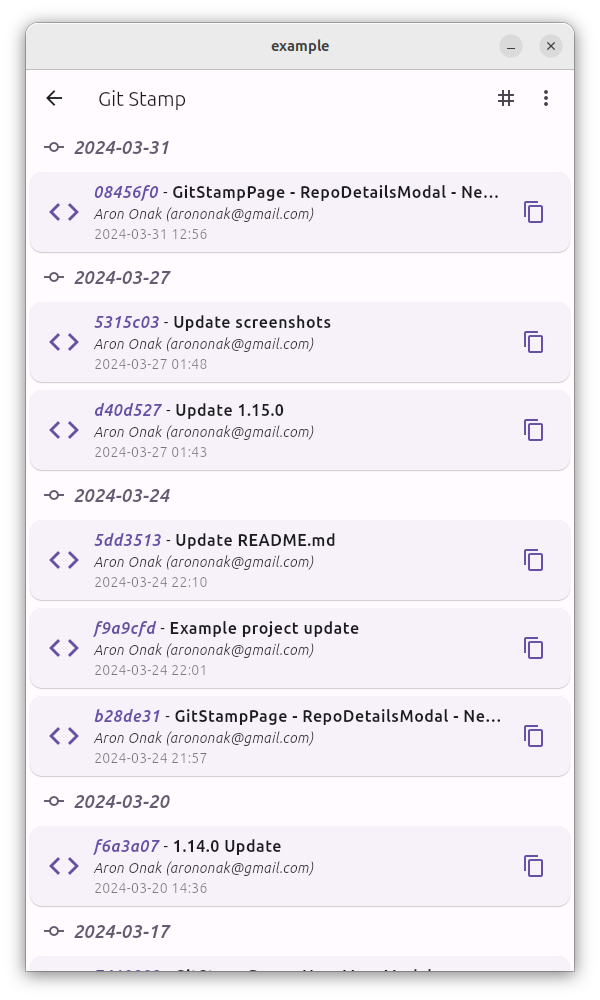
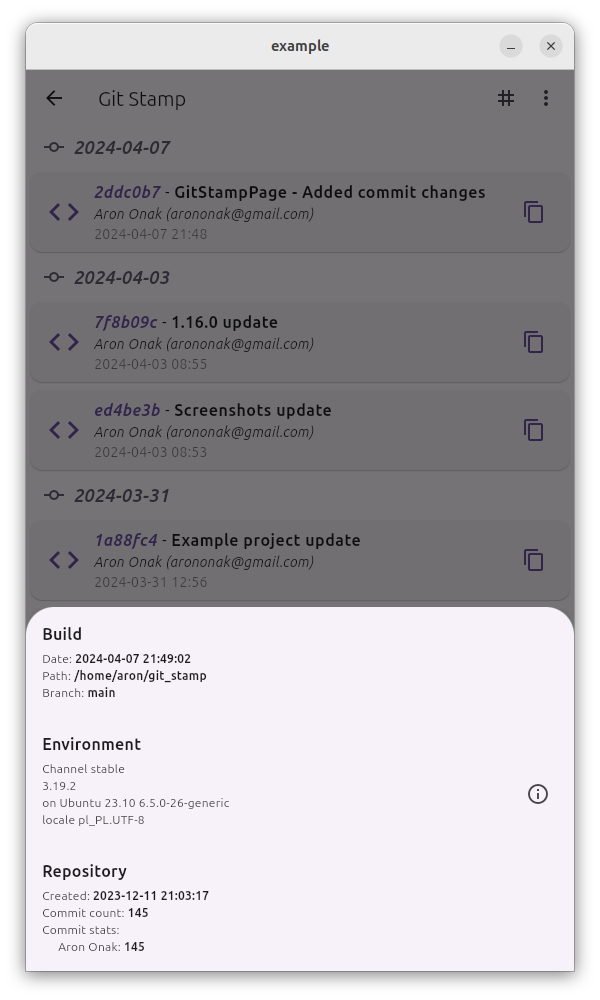
2.0.0 Update

diff --git a/bin/generate.dart b/bin/generate.dart
@@ -87,7 +87,11 @@ String gitRepoPathOutput() {
 }
 
 String gitDiffOutput() {
-  final hashes = Process.runSync('git', ['rev-list', '--all']).stdout.toString().trim().split('\n');
+  final hashes = Process.runSync('git', ['rev-list', '--all'])
+      .stdout
+      .toString()
+      .trim()
+      .split('\n');
 
   Map<String, String> gitShowMap = {};
 
@@ -96,7 +100,8 @@ String gitDiffOutput() {
     print('git show $hash');
   }
 
-  final diffOutput = 'const diffOutput = <String, String>${jsonEncode(gitShowMap).replaceAll(r'$', r'\$')};';
+  final diffOutput =
+      'const diffOutput = <String, String>${jsonEncode(gitShowMap).replaceAll(r'$', r'\$')};';
 
   return diffOutput;
 }
@@ -111,9 +116,9 @@ void main() {
     File(filename).writeAsStringSync(content);
   }
 
-  saveFile('$outputFolder/json_output.dart', gitLogOutput());  // List
+  saveFile('$outputFolder/json_output.dart', gitLogOutput()); // List
   saveFile('$outputFolder/diff_output.dart', gitDiffOutput()); // Details
-  
+
   saveFile('$outputFolder/creation_date_output.dart', gitCreationDateOutput());
   saveFile('$outputFolder/branch_output.dart', gitBranchOutput());
   saveFile('$outputFolder/build_date_time_output.dart', buildDateOutput());

diff --git a/README.md b/README.md
@@ -53,6 +53,7 @@ flutter pub run git_stamp:generate.dart
 |       |-- build_date_time_output.dart
 |       |-- build_system_info_output.dart
 |       |-- creation_date_output.dart
+|       |-- diff_output.dart
 |       |-- git_stamp_commit.dart
 |       |-- git_stamp_page.dart
 |       |-- json_output.dart

diff --git a/CHANGELOG.md b/CHANGELOG.md
@@ -87,3 +87,6 @@
 
 * GitStampPage - RepoDetailsModal - Next new design
 
+## 2.0.0
+
+* GitStampPage - Added commit changes
